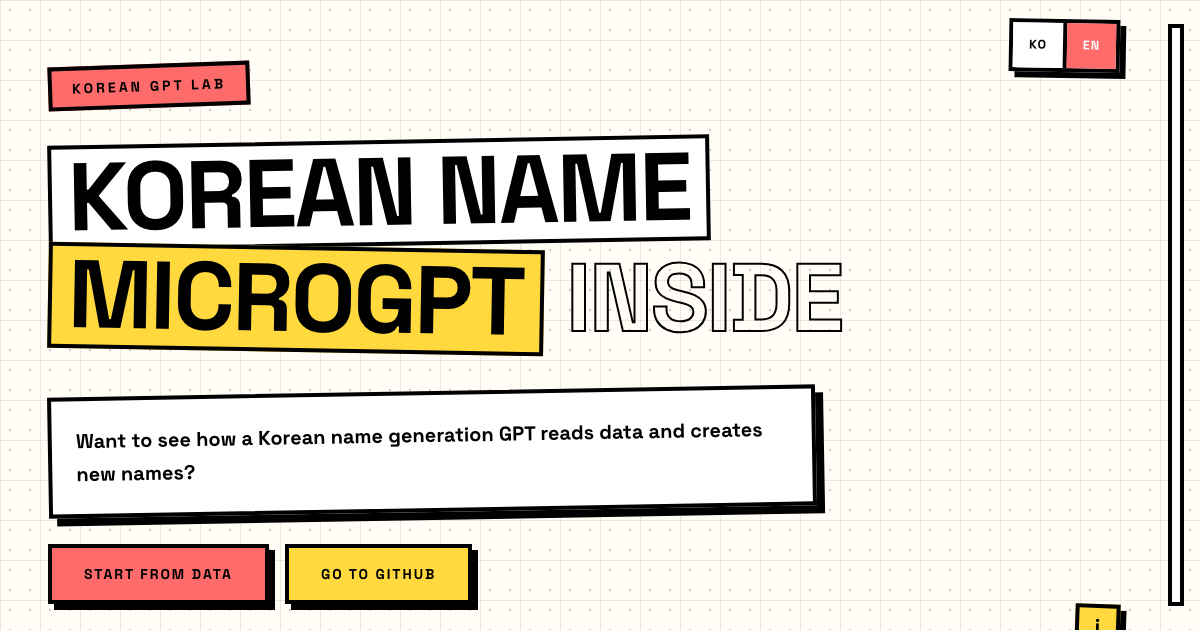
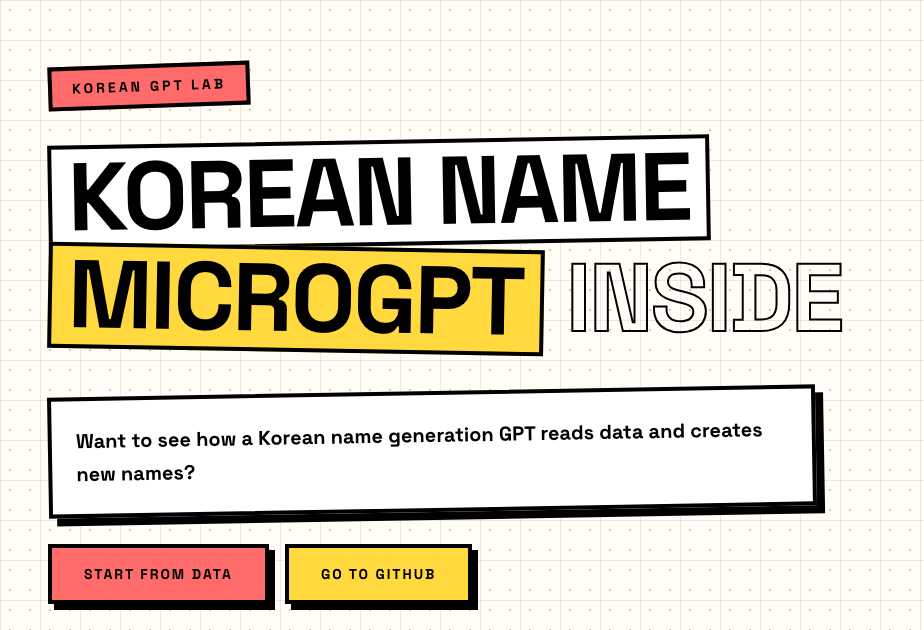
Add OG meta and capture script

diff --git a/app/index.html b/app/index.html
@@ -21,7 +21,7 @@
     <meta property="og:image" content="https://ko-microgpt.vercel.app/og/hero.png" />
     <meta property="og:image:secure_url" content="https://ko-microgpt.vercel.app/og/hero.png" />
     <meta property="og:image:type" content="image/png" />
-    <meta property="og:image:width" content="1200" />
+    <meta property="og:image:width" content="924" />
     <meta property="og:image:height" content="630" />
     <meta property="og:image:alt" content="KOREAN MICROGPT LAB" />
     <meta name="twitter:card" content="summary_large_image" />

diff --git a/app/src/components/sections/HeroSection.jsx b/app/src/components/sections/HeroSection.jsx
@@ -66,7 +66,7 @@ function HeroSection({ language, onLanguageChange, copy }) {
       <button
         ref={infoStickerRef}
         type="button"
-        className="hero-info-sticker hero-info-sticker--bottom-right hero-sticker"
+        className="hero-info-sticker hero-info-sticker--bottom-right"
         onClick={() => setIsProjectInfoOpen(true)}
         aria-label={copy.openProjectInfoAria}
         aria-haspopup="dialog"

diff --git a/app/src/index.css b/app/src/index.css
@@ -167,6 +167,8 @@ a {
   transition:
     transform 100ms linear,
     box-shadow 100ms linear;
+
+  margin-bottom: 0.6rem;
 }
 
 .hero-info-sticker:hover,
